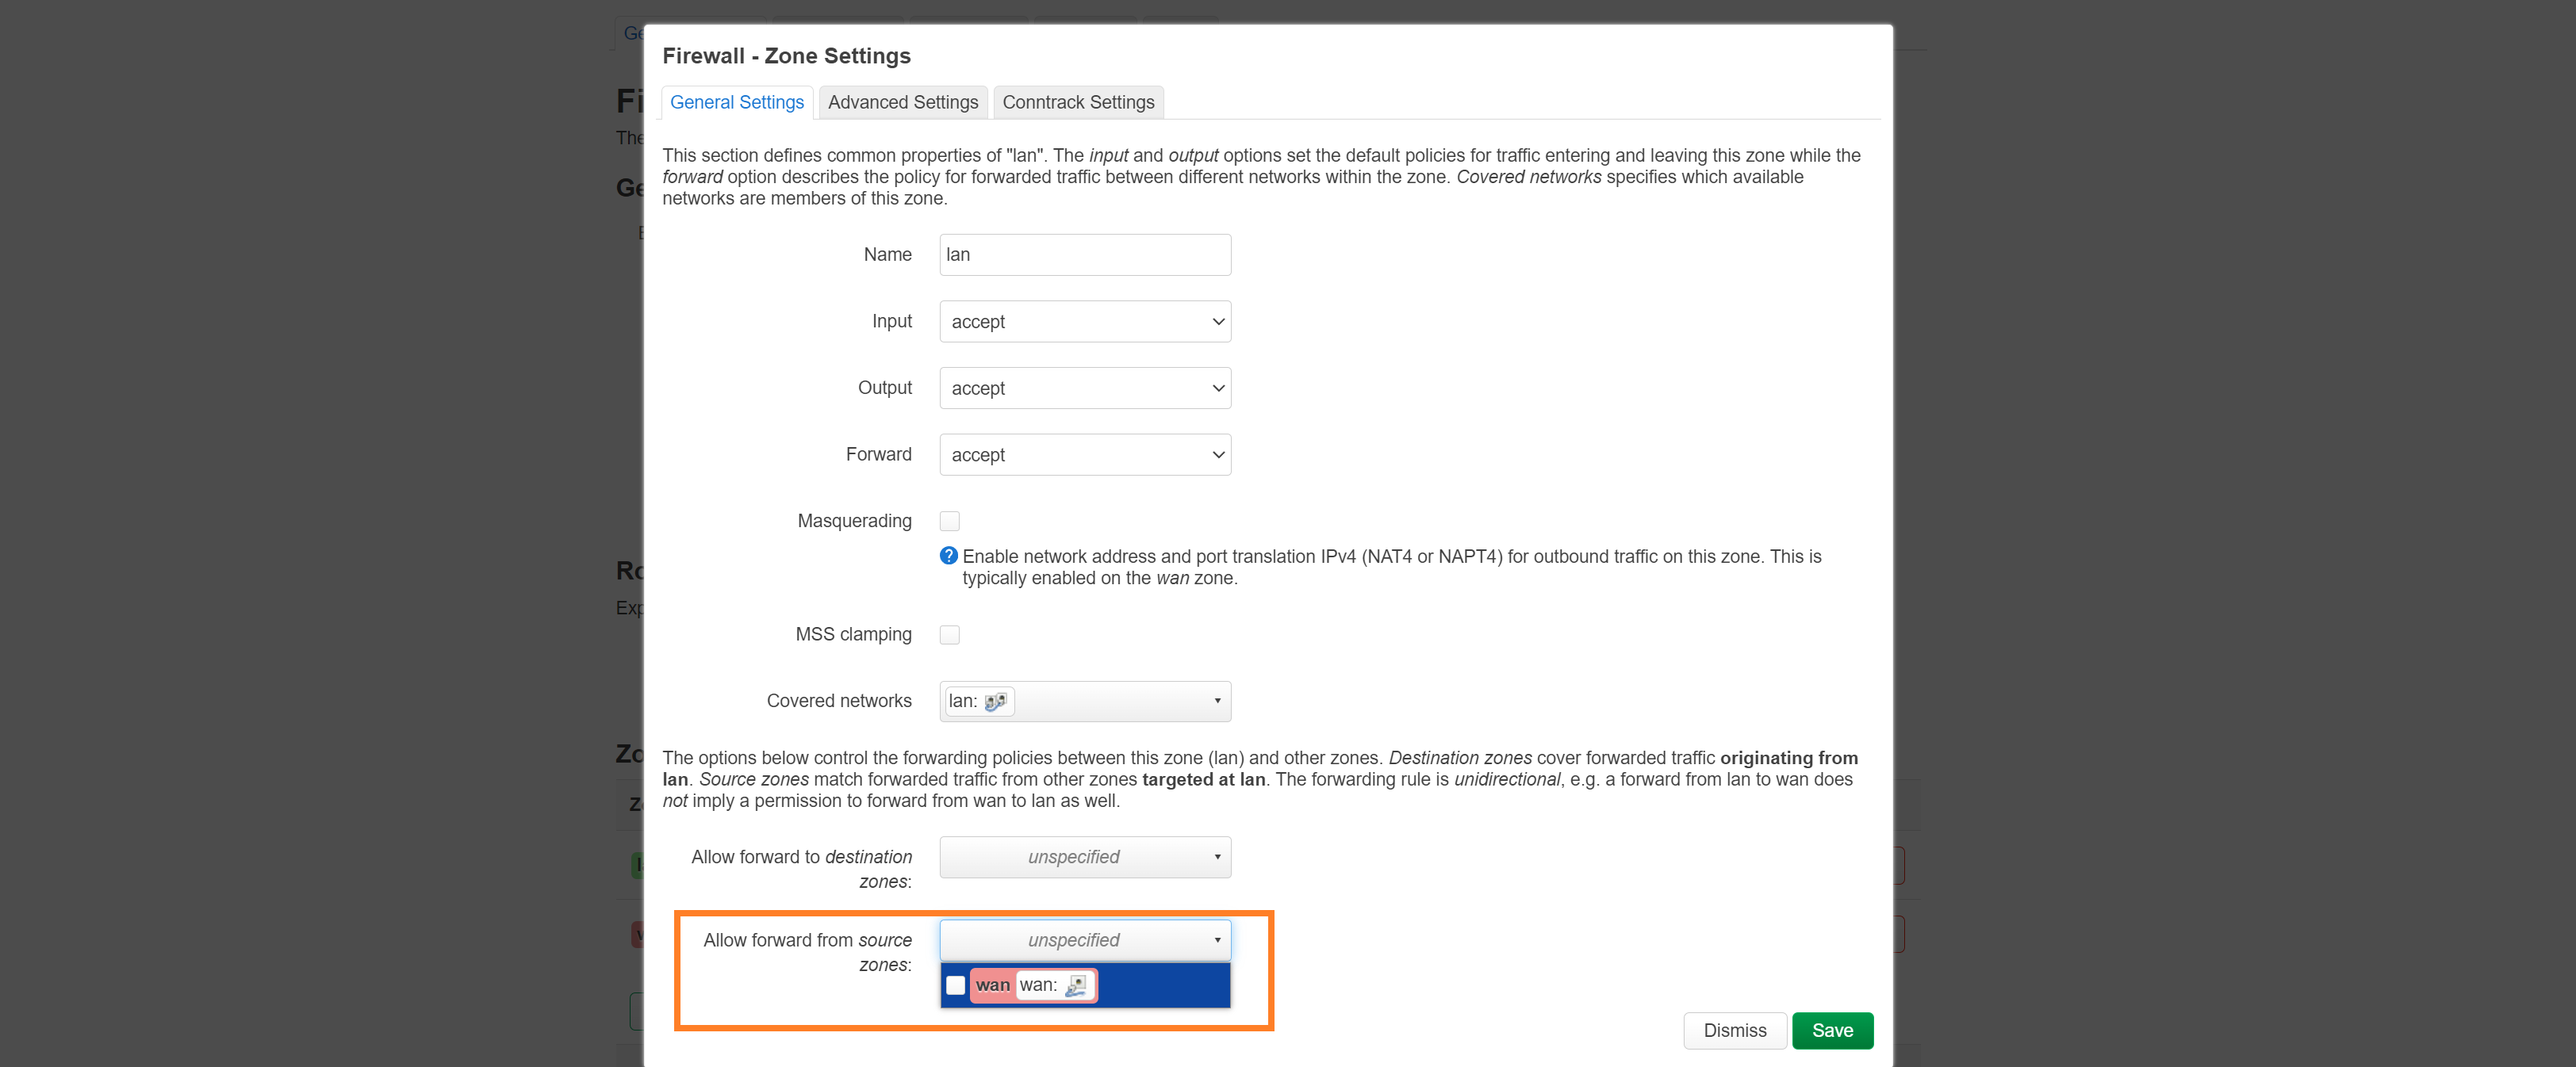
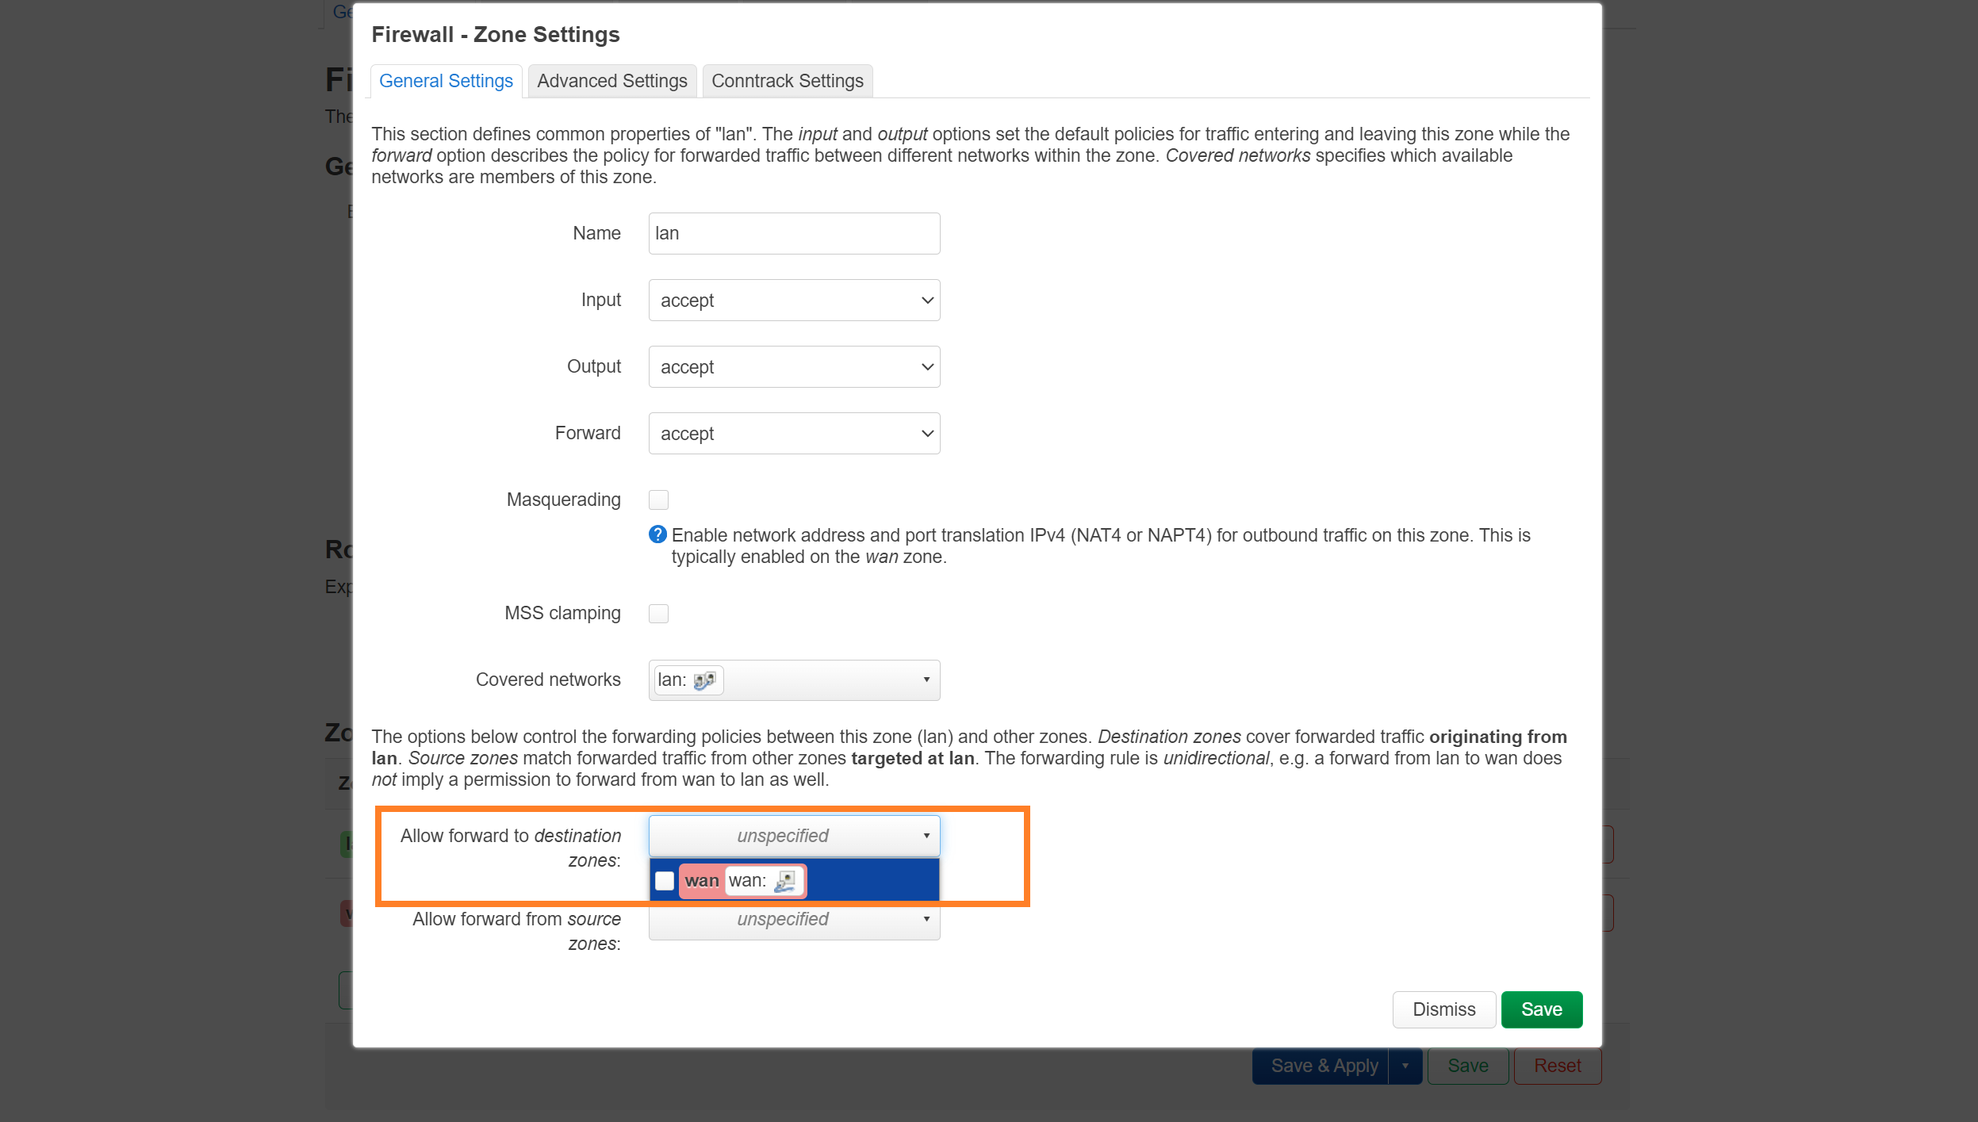
fix.

Changed region(s): [[0.1544, 0.0, 0.8336, 1.0], [0.3396, 0.2184, 0.4014, 0.4368]]

diff --git a/OpenWRT.md b/OpenWRT.md
@@ -479,11 +479,11 @@ OpenWrt的wan口和lan口实质区别就是**防火墙配置**不同。只要更
 
 保存并应用之后，在OpenWrt内输入`ping baidu.com`。发现百度域名被解析为IP地址`39.156.66.10`。这是因为wan口DNS请求被转发给了lan来处理。
 
-接下来进入lan区域的防火墙设置，并取消勾选wan区域的转发权限。
+接下来进入lan区域的防火墙设置，并取消勾选转发至wan区域的转发权限。
 
 ![防火墙设置1](./pics/OpenWrt/4.14.png)
 
-在lan区域取消从wan至lan的转发权限后，wan区域会自动取消从wan至lan的转发权限。设置完后如下图所示。
+在lan区域取消从lan至wan的转发权限后，wan区域会自动取消从lan至wan的转发权限。设置完后如下图所示。
 
 ![防火墙设置2](./pics/OpenWrt/4.15.png)
 
